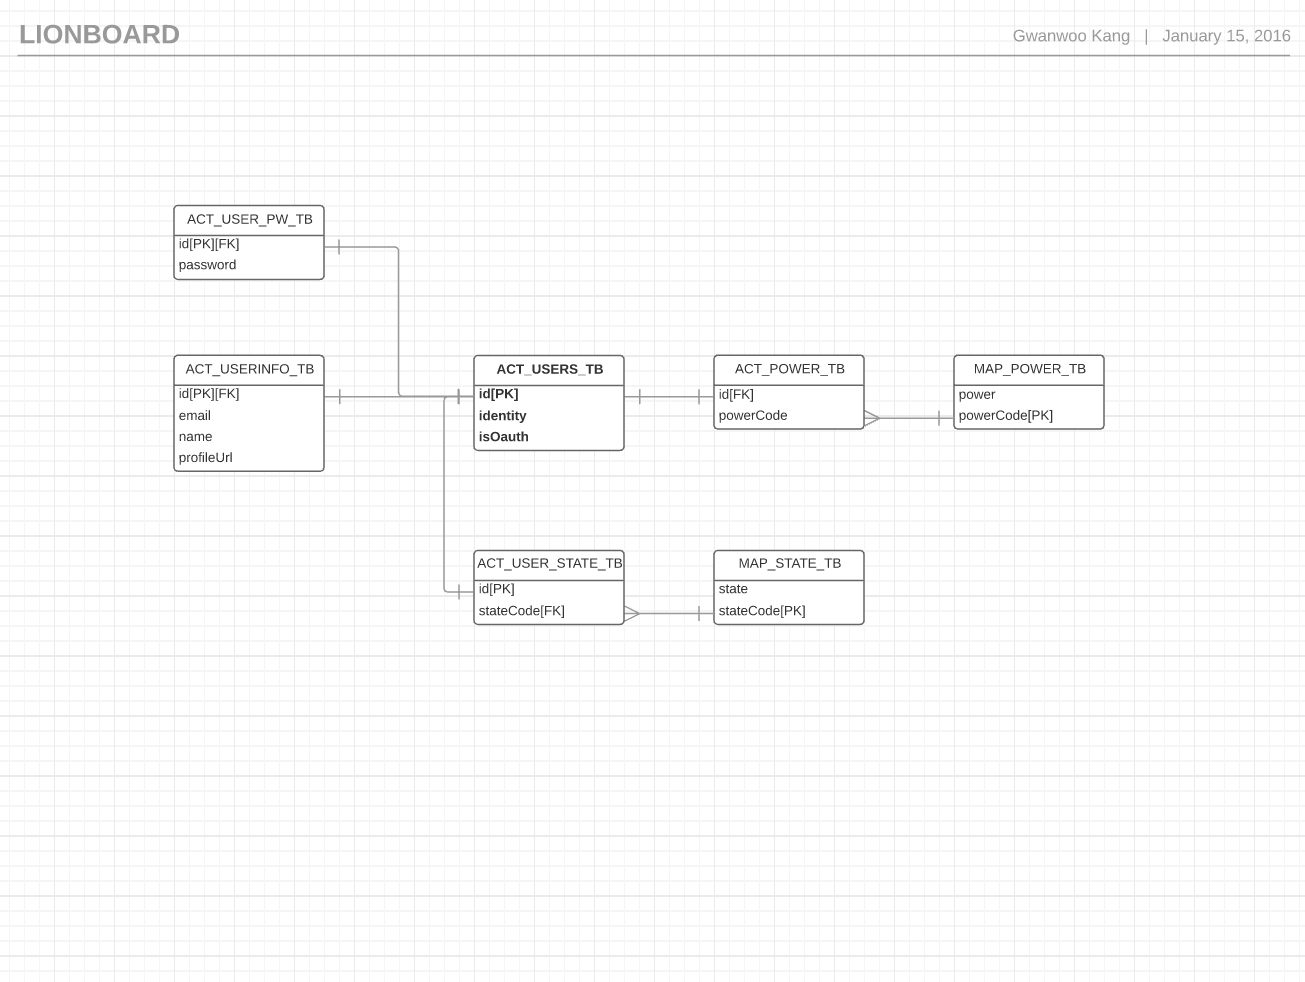
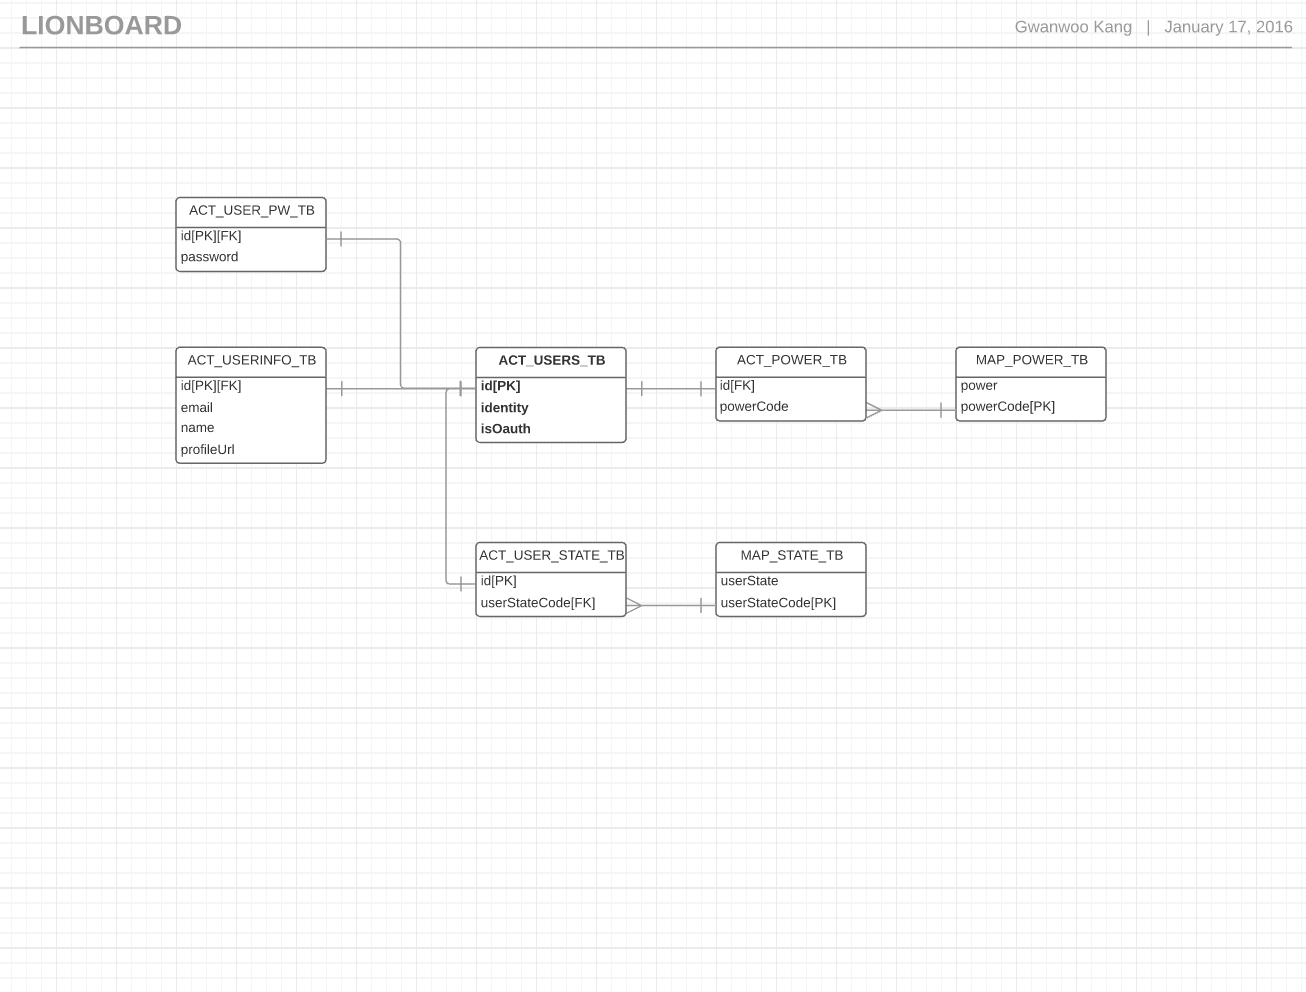
init new feature to handle user.
- edit database info.

diff --git a/database/README.md b/database/README.md
@@ -1,10 +1,11 @@
 # 용어사전
-| 약어      | 한글      | 영어          |설명
-| :-------: | :-------: | :-----------: |
-| cmt 	    | 댓글    | comment         | 
-| MAP   	    | 사상      | Mapping       | 매핑 테이블을 나타내는 헤더
-| ACT        | 활성      | Active          | 직접 사용되는 테이블을 나타내는 헤더
-| Identity       | 신원   | Identity      | OAuth Token 혹은 email
-| powerCode       | 권한값      | PowerCode     | 1: admin 2: manager 3:user
-| StateCode   | 상태값     | StateCode  | S:service T:temp D: Delete A: AdminDelete
-| processCode  | 처리값  | processCode | 3:보류 2:최초신고  1:처리완료
+| 약어      | 한글      | 영어          |설명|
+| :-------: | :-------: | :-----------: | :-----------:|
+| cmt 	    | 댓글    | comment         | |
+| MAP   	    | 사상      | Mapping       | 매핑 테이블을 나타내는 헤더|
+| ACT        | 활성      | Active          | 직접 사용되는 테이블을 나타내는 헤더|
+| Identity       | 신원   | Identity      | OAuth Token 혹은 email|
+| powerCode       | 권한값      | PowerCode     | 3:user 2: manager 1: admin |
+| StateCode   | 상태값     | StateCode  | 4:service 3:temp 2: Delete 1: AdminDelete|
+| processCode  | 처리값  | processCode | 3:newest(새로운 신고) 2:passed(신고 보류)  1:processed(처리 완료)|
+| userStateCode  | 사용자상태값  | userStateCode | 3:Actived(활성사용자) 2:Deactivated(정지사용자)  1:leaveed(탈퇴사용자)|
